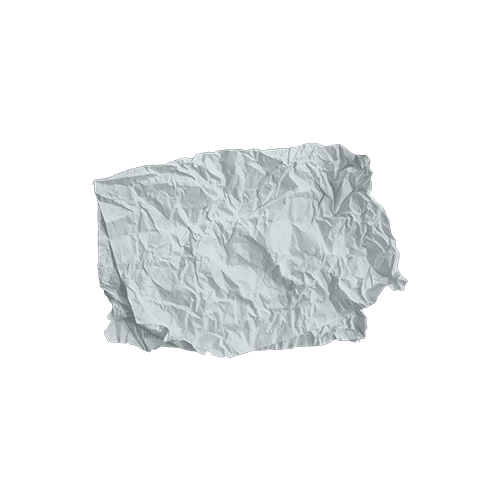
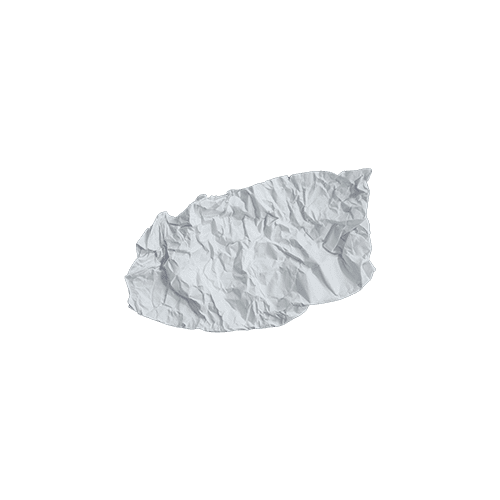
added Menu and NavMenu components and change some images

Changed region(s): [[0.18, 0.27, 0.81, 0.72]]

diff --git a/src/components/Menu.tsx b/src/components/Menu.tsx
@@ -1,7 +1,74 @@
+import { motion } from 'framer-motion'
+import { useEffect, useState } from 'react'
+
+import paperBall from '../assets/img/paper/01.png'
+import paperBall2 from '../assets/img/paper/02.png'
+import paperBall3 from '../assets/img/paper/03.png'
+import paperBall4 from '../assets/img/paper/04.png'
+import { NavMenu } from './NavMenu'
+
+interface IntervalId {
+    id: ReturnType<typeof setInterval> | null;
+  }
+
 export function Menu() {
+    const imagens = [paperBall, paperBall2, paperBall3, paperBall4];
+
+
+    const [isMenuOpen, setIsMenuOpen] = useState(false);
+    const [currentIndex, setCurrentIndex] = useState(0);
+    const [isHovered, setIsHovered] = useState(false);
+    const [intervalId, setIntervalId] = useState<IntervalId>({ id: null });
+
+    const [isIntroPlaying, setIsIntroPlaying] = useState(true); // Estado para controlar a introdução
+
+    const handleHoverStart = () => {
+        setIsHovered(true);
+        const id = setInterval(() => {
+        setCurrentIndex((prevIndex) => (prevIndex + 1) % imagens.length);
+        }, 250);
+        setIntervalId({ id });
+    };
+
+    const handleHoverEnd = () => {
+        setIsHovered(false);
+        if (intervalId.id) {
+        clearInterval(intervalId.id);
+        }
+        setCurrentIndex(0);
+        setIntervalId({ id: null });
+    };
+
+    const handleButtonClick = () => {
+        setIsMenuOpen(!isMenuOpen);
+      };
+
+      useEffect(() => {
+        const introTimer = setTimeout(() => {
+          setIsIntroPlaying(false); // Desativa a introdução após um determinado tempo (3 segundos no exemplo)
+        }, 3000);
+    
+        return () => {
+          clearTimeout(introTimer); // Limpa o temporizador quando o componente é desmontado
+        };
+      }, []);
+
     return (
         <div>
-            He
+            {
+            isMenuOpen ? <NavMenu key="navMenu" setIsMenuOpen={setIsMenuOpen} /> : null
+            }
+            <div className='w-full h-full flex justify-end pt-7 pr-7'>
+                <motion.div
+                    className='fixed w-14 h-14 cover p-3 rounded-full cursor-pointer bg-white-white'
+                    onHoverStart={handleHoverStart}
+                    onHoverEnd={handleHoverEnd}
+                    onClick={handleButtonClick}
+                >
+                    <img className="h-full w-full" src={imagens[currentIndex]} alt="bolinha de papel amassada" />
+                </motion.div>
+            </div>
         </div>
+        
     )
 }

diff --git a/src/components/NavMenu.tsx b/src/components/NavMenu.tsx
@@ -1,0 +1,31 @@
+import React from 'react';
+
+interface NavMenuProps {
+    setIsMenuOpen: React.Dispatch<React.SetStateAction<boolean>>;
+  }
+
+
+  export function NavMenu(props: NavMenuProps) {
+    const handleExitButtonClick = () => {
+      props.setIsMenuOpen(false);
+    };
+
+
+    return(
+        <section  className="fixed z-10 w-screen h-screen bg-[url('/src/assets/img/bg-menu.jpg')] bg-no-repeat bg-cover overflow-hidden">
+            <div className="h-full w-full overflow-hidden">
+                <nav className="flex justify-center items-center h-full w-auto flex-col">
+                    <div>
+                        ola
+                    </div>
+                    <div>
+                        ola
+                    </div>
+
+                    {/* Botão de saída */}
+                    <button onClick={handleExitButtonClick}>Sair do Menu</button>
+                </nav>
+            </div>
+        </section>
+    )
+}

diff --git a/src/components/Cerebro.tsx b/src/components/Cerebro.tsx
@@ -25,7 +25,7 @@ export function Cerebro (){
 
     
   return (
-    <div className="w-full h-full">
+    <div className="w-full h-full bg-black">
       <motion.img
         src={`/src/assets/img/brain/${currentFrame}.png`}
         className='transition ease-in-out delay-150'

diff --git a/src/App.tsx b/src/App.tsx
@@ -5,8 +5,9 @@ import './style/global.css'
 
 export function App() {
   return (
-    <div>
-      <Cerebro />
+    <div className="bg-background">
+        <Menu />
+        <Cerebro />
     </div>
   )
 }
